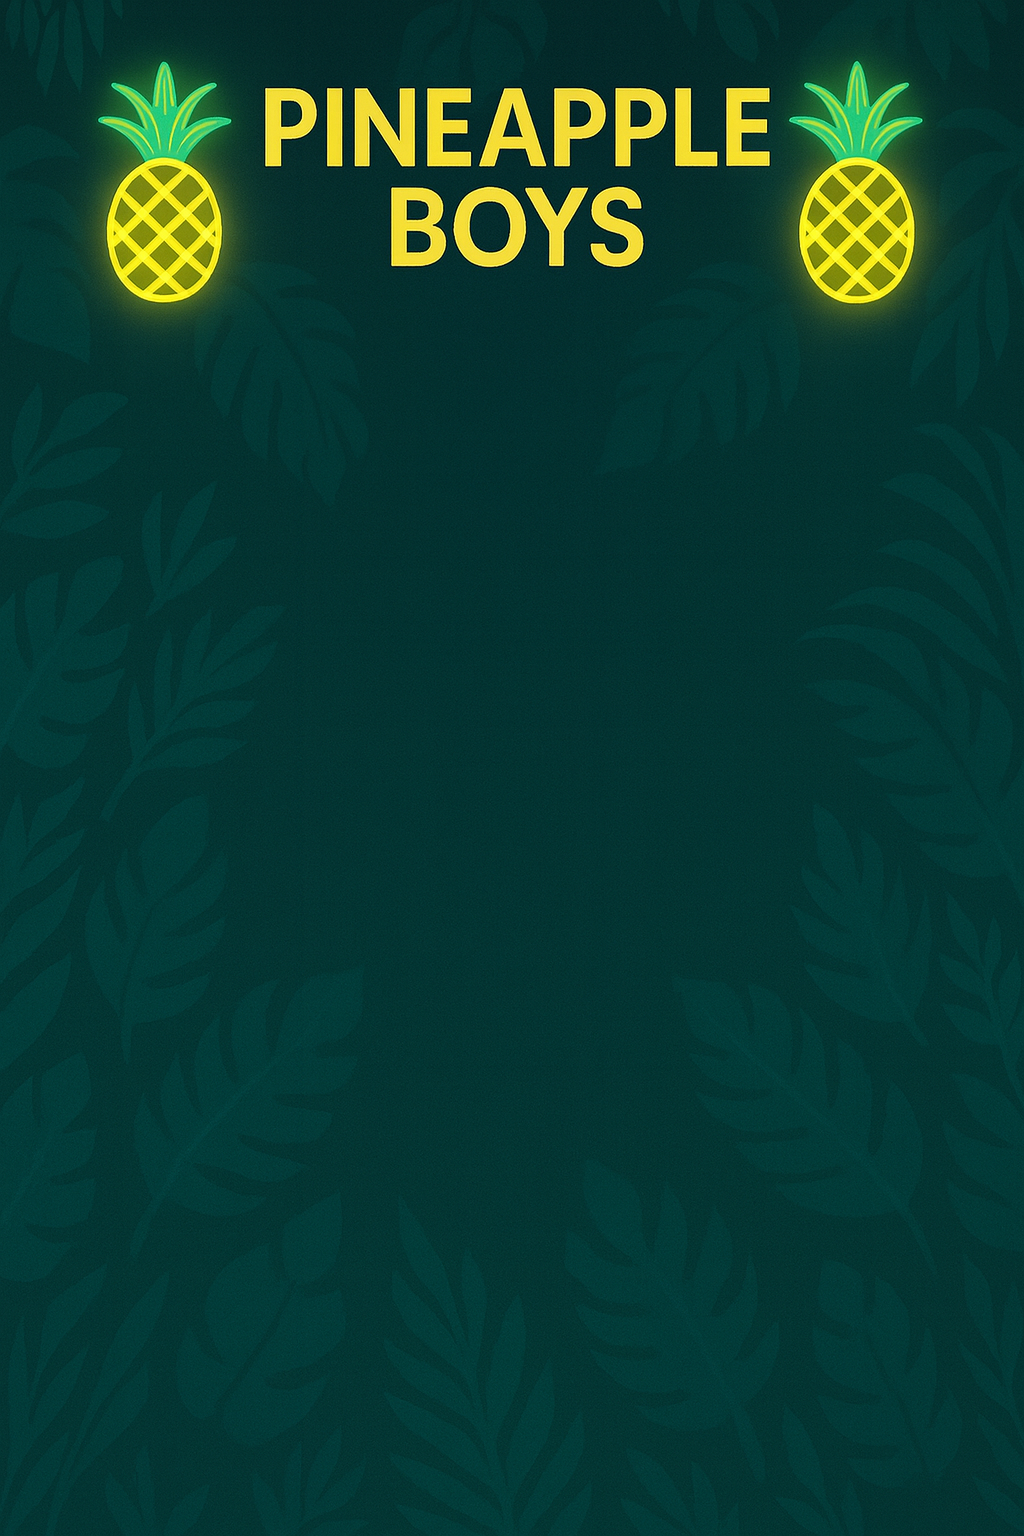
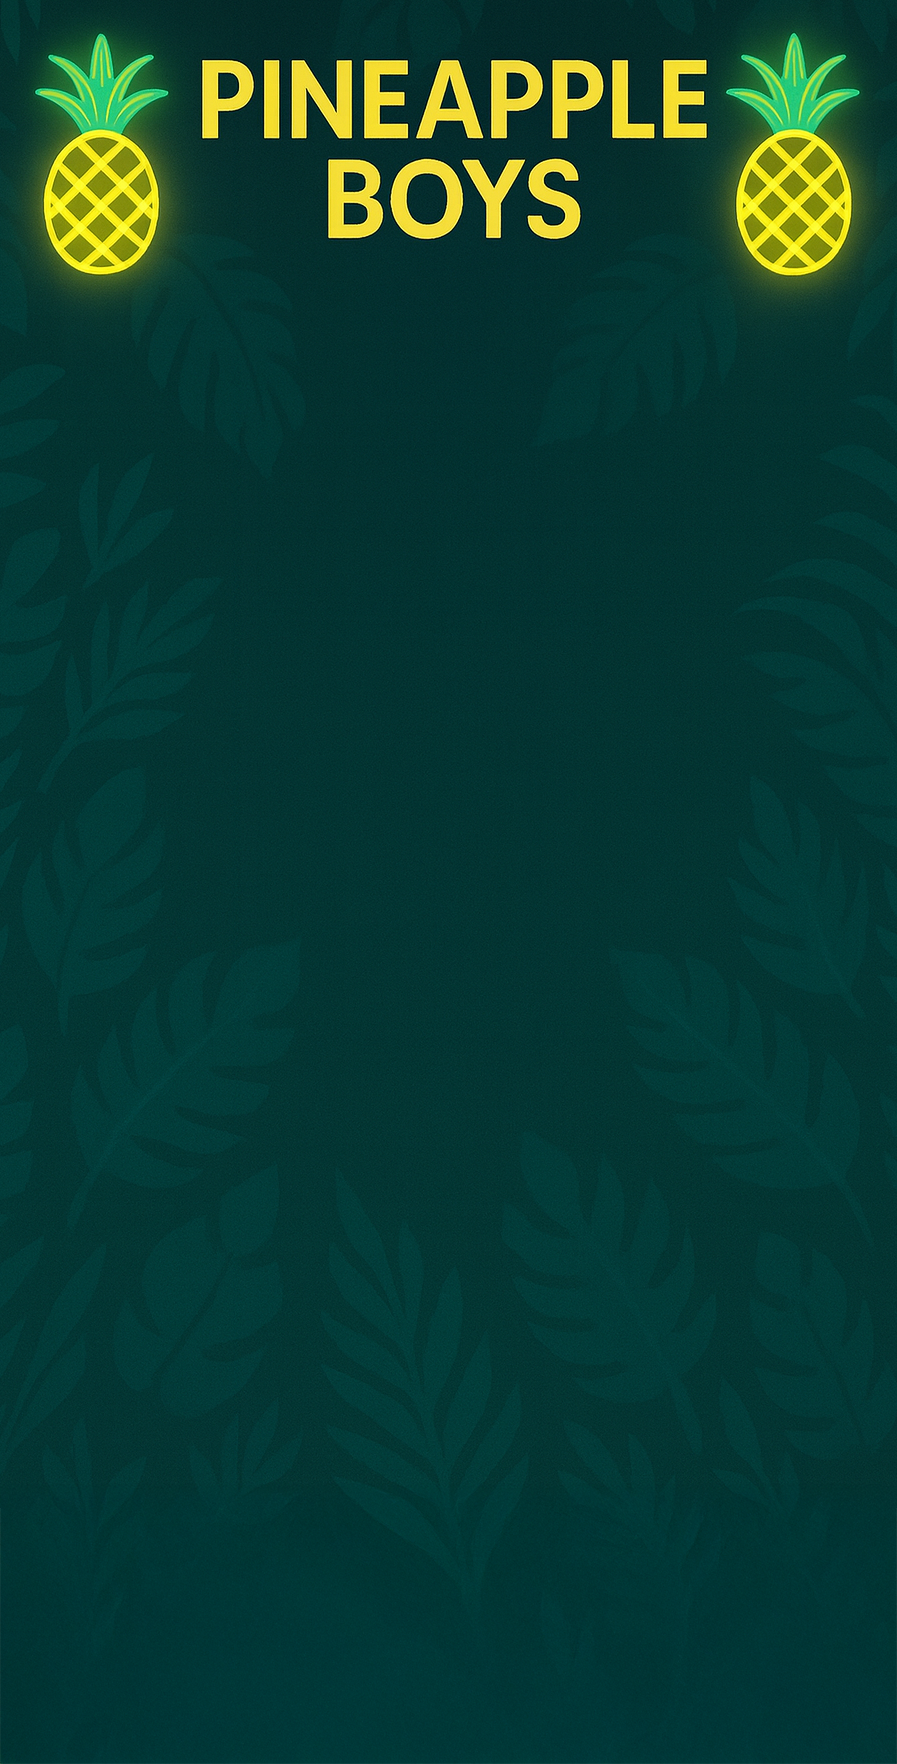
Force remove gradient overlay on mobile with !important
Added !important flags to fully override the gradient background
on mobile devices, ensuring only the background image shows.

🤖 Generated with [Claude Code](https://claude.com/claude-code)

Changed region(s): [[0.0312, 0.0, 0.9989, 0.2188]]

diff --git a/src/app/globals.css b/src/app/globals.css
@@ -589,10 +589,10 @@ body {
 
 @media (max-width: 420px) {
   body {
-    background-image: url("/Background.png");
-    background-size: 100% 100%;
-    background-position: center center;
-    background-repeat: no-repeat;
+    background-image: url("/Background.png") !important;
+    background-size: 100% 100% !important;
+    background-position: center center !important;
+    background-repeat: no-repeat !important;
   }
 
   .header-title {
